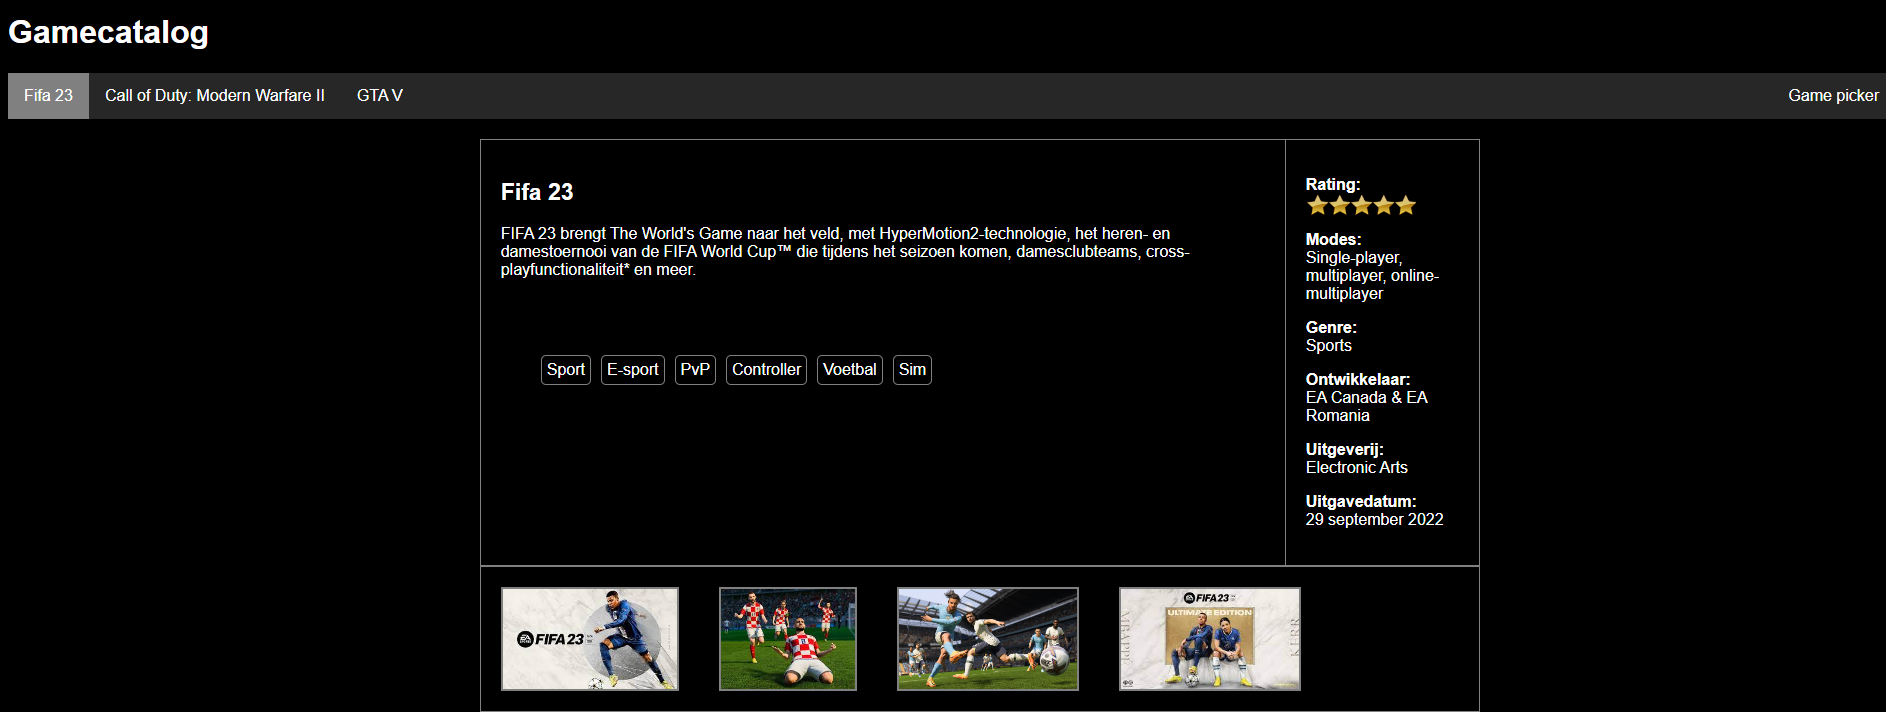
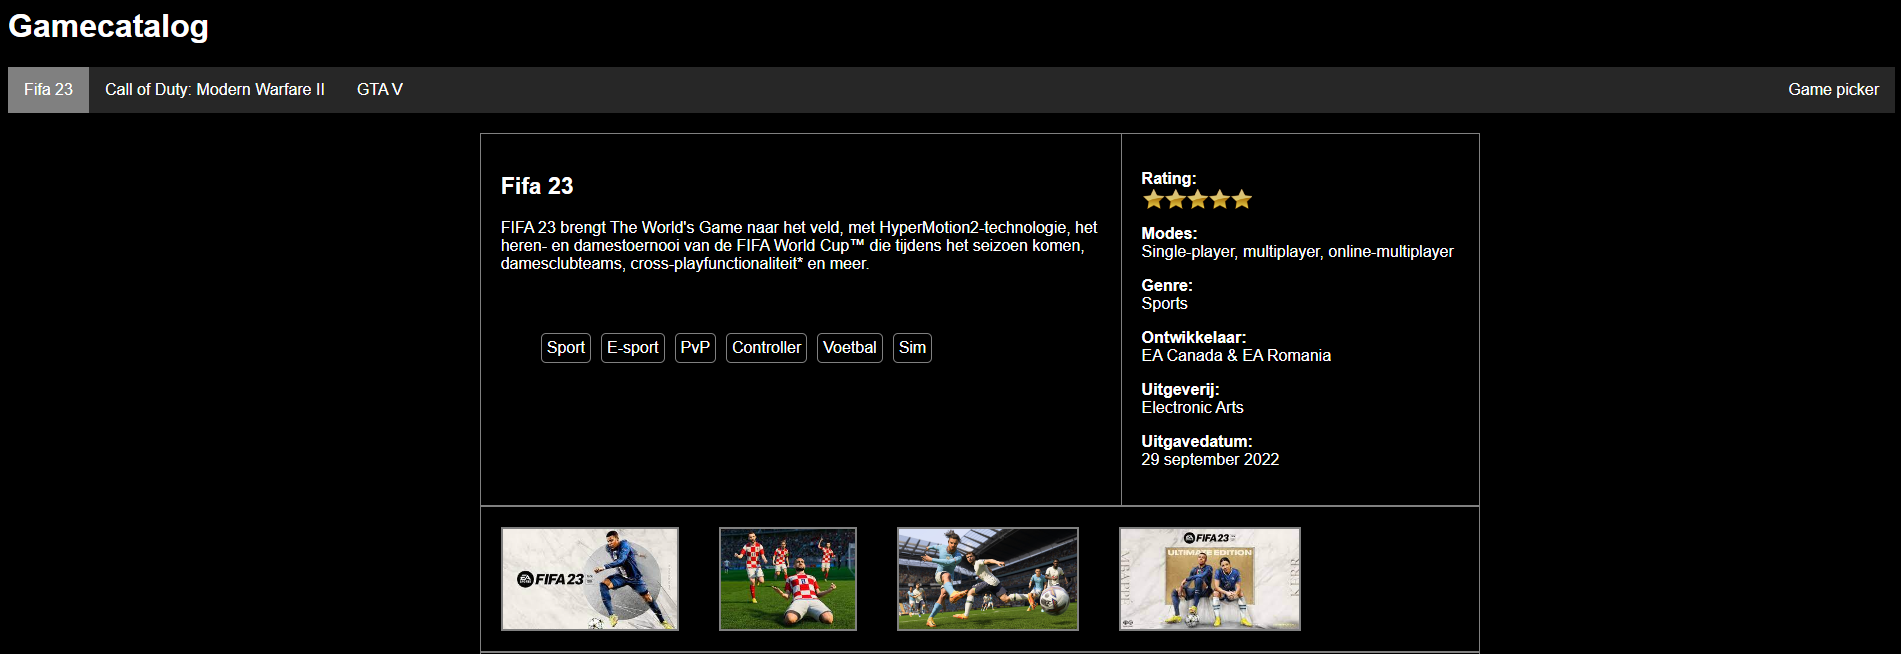
update readme screenshots

diff --git a/fifa-catalog.html b/fifa-catalog.html
@@ -19,7 +19,7 @@
     </header>
     <main>
         <section>
-            <article>
+            <article id="game-article">
                 <h2>Fifa 23</h2>
                 <p>FIFA 23 brengt The World's Game naar het veld, met HyperMotion2-technologie, het heren- en damestoernooi van de FIFA World Cup™ die tijdens het seizoen komen, damesclubteams, cross-playfunctionaliteit* en meer.</p>
                 <ul>

diff --git a/cod-catalog.html b/cod-catalog.html
@@ -19,7 +19,7 @@
     </header>
     <main>
         <section>
-            <article>
+            <article id="game-article">
                 <h2>Call of Duty: Modern Warfare II</h2>
                 <p>Call of Duty®: Modern Warfare® II voert spelers mee in een ongekend wereldwijd conflict, waarin de iconische Operators van Task Force 141 weer terugkeren.</p>
                 <ul>

diff --git a/gta-catalog.html b/gta-catalog.html
@@ -19,7 +19,7 @@
     </header>
     <main>
         <section>
-            <article>
+            <article id="game-article">
                 <h2>GTA V</h2>
                 <p>In Grand Theft Auto V voor PC kun je de bekroonde wereld van Los Santos en Blaine County verkennen met een resolutie van 4k of hoger en met wel 60 frames per seconde.</p>
                 <ul>

diff --git a/css/style-game.css b/css/style-game.css
@@ -80,12 +80,16 @@ img {
     margin: 20px
 }
 
+#game-article {
+    width: 600px;
+}
+
 #image-article {
     display: flex;
 }
 
 #rate-article {
-    border-left: 1px solid gray
+    border-left: 1px solid gray;
 }
 
 footer {
@@ -99,3 +103,4 @@ footer a {
     background-color: transparent;
     color: grey
 }
+
